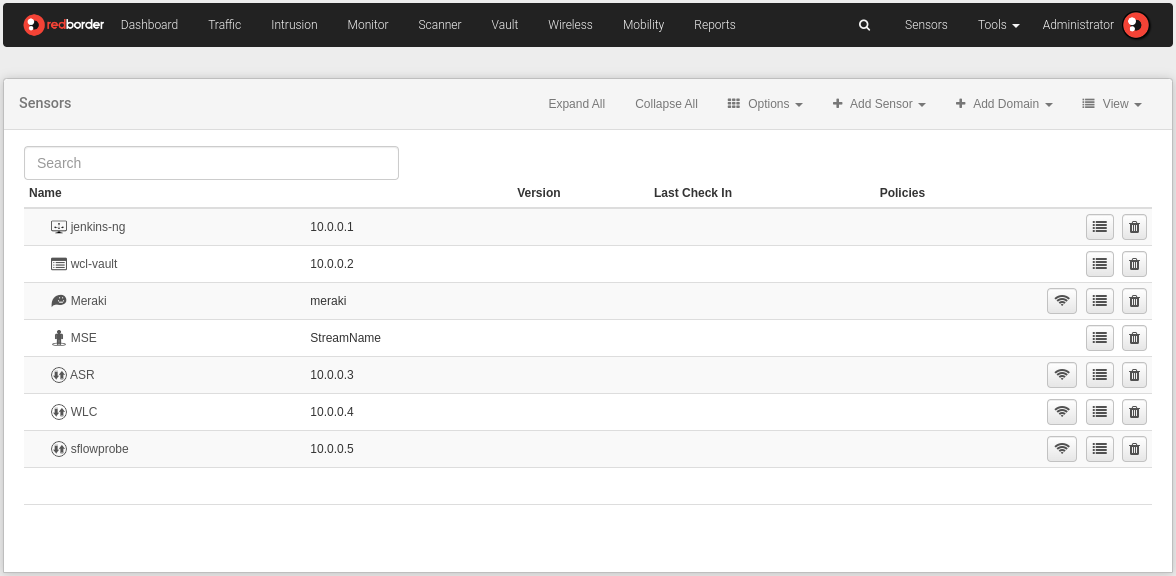
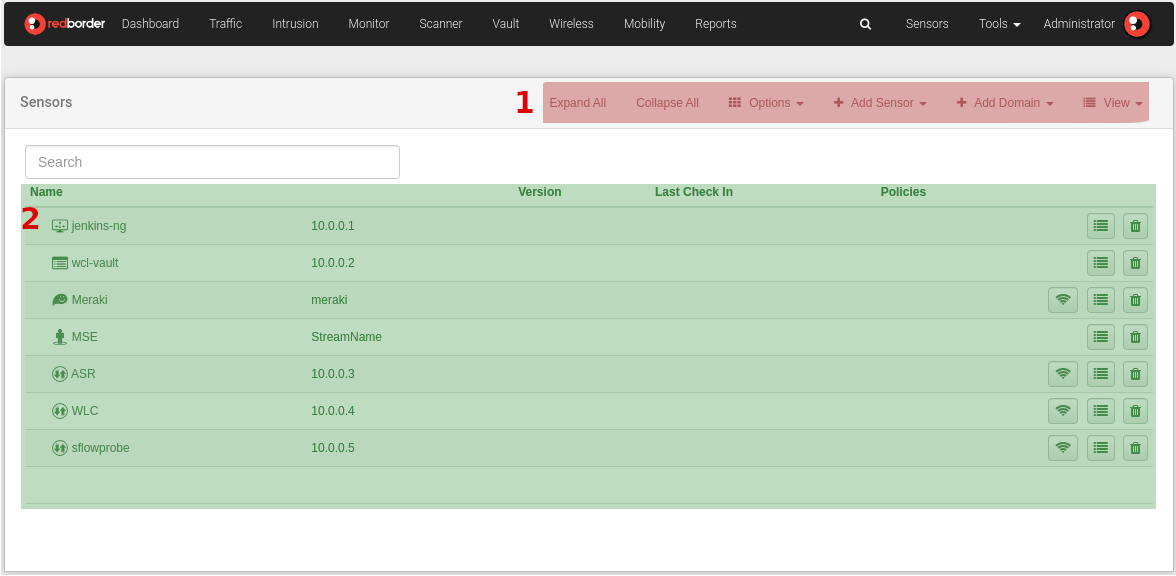
Adaptation of chapters from 6.1 to 6.8 in ES and EN

diff --git a/docs/manager/platform_configurations/ch6_sensors.md b/docs/manager/platform_configurations/ch6_sensors.md
@@ -1,2 +1,255 @@
 
 # Sensors
+
+In the **Sensors** section, users can query, manage, and configure the sensors registered in the Manager by creating and editing domains and sensors. For this purpose, there are several views that offer the possibility to perform various actions on the sensors registered in the Manager.
+
+**Sensors** is available in the top right corner of the header menu, next to the **Tools** section and the user area. This menu area is called the **Configuration Zone**, because unlike the options available in the top left corner (Analysis), these allow for complete management and configuration of the Manager and the sensors: rule policies, alarms, cluster configuration, or user management, among other actions.
+
+## Menu and Sensor Options
+
+The organization of this section is very similar, in terms of structure, to that of other parts of the website. In this case, we find:
+
+![General Sensors View](images/ch06_img001.png)
+
+General Sensors View
+
+1. **Submenu section**: configuration and management options for sensors.
+    - *Expand all*: Fully expands the sensor tree.
+    - *Collapse all*: Fully collapses the sensor tree.
+    - *Options*
+    - *Add sensor*
+    - *Add domain*
+    - *View*
+
+- **Main area**: the information displayed in this area depends on the selected view. There are four views available to visualize the organization of sensors registered in the Manager:
+    - *Tree*: a list that shows the network infrastructure according to levels of hierarchy and dependency between the elements that compose it. Two icons next to each element allow for editing and deleting actions.
+    - *Map*: places the location of domains and sensors on a map.
+    - *Access Points*: offers direct access to the visualization of defined Access Points.
+
+    In the **Sensors** view, users can find a list of sensors available according to the applications included in their license. Click on the sensor you want to check to see an alphabetical list of all sensors associated with this application.
+
+!!!info "Please note..."
+    Each view presents its own menu of options and different possibilities for creating and editing sensors or domains.
+
+    The Map view does not present available options.
+
+## Options
+
+Here are the available options in the **Sensors** section. They can be selected from the Options button and from the options shown by clicking on the "Edit" button both at the domain level and at the sensor level.
+
+- *Import Tree*: This option allows you to import your network infrastructure by uploading a file to the Redborder platform. This will be displayed in the tree view.
+
+    ![Import Tree](images/ch06_img002.png)
+
+    Import Tree
+
+    There are two ways to import a tree:
+
+    1. **Options** -> **Import Tree**
+    - Edit icon (domain level)
+
+    ![Tree Import](images/ch06_img003.png)
+
+    Tree Import
+
+- *Export Tree*: This option allows you to export a tree and is available to other applications. The user will download a zip file to store it on their computer.
+
+    There are two ways to export a tree:
+
+    1. **Options** -> **Export Tree**
+    - Edit icon (domain level)
+
+    ![Tree Export](images/ch06_img004.png)
+
+    Tree Export
+
+- *Chef Cluster Lift*
+- *Cluster Data*
+    1. Indexed Data: Displays statistics of indexed data from the cluster
+    - Historical: Displays information about the historical data of the cluster
+    - Realtime: Displays information about the Realtime process
+
+## Add Sensor
+
+Throughout the submenu options, we find **Add a Sensor**. In the dropdown menu, the different sensors available to add to the network infrastructure are displayed.
+
+Select the type of sensor from the dropdown menu and then fill in the requested information.
+
+It is also possible to claim a sensor from a remote proxy using the option in the dropdown menu and entering the UUID of the sensor.
+
+![Add Sensor](images/ch06_img018.png)
+
+Add Sensor
+
+!!!info "Please note..."
+    At the moment a sensor is created, it is set by default as root, above the domain level.
+
+    Users can organize their sensor infrastructure at any time by dragging and dropping the sensor to the level where they want it to be.
+    
+    The sensor automatically inherits the properties of the root domain (policies, operating mode, Snort variables, etc.).
+
+## Views
+
+When the user accesses the Sensors section, they can find a list (tree view) displaying the domains and sensors that are part of their network infrastructure. At this point, let's review each view and the available actions.
+
+![View Menu Options](images/ch06_img005.png)
+
+View Menu Options
+
+### Tree
+
+The **tree** view (Shown in the image above) is the default view when accessing **Sensors**. It displays a list showing the organization of domains and sensors according to levels of hierarchy and dependency.
+
+From this view, the user can add a new domain or sensor, delete existing ones, access other views, import and export the tree, as well as directly edit all domains and sensors that are part of the list.
+
+Each item displayed in the tree has two icons: Edit and Delete. (The same icons function in both the tree view and the sensor view):
+
+![Edit and Delete Icons](images/ch06_img006.png)
+
+Edit and Delete Icons
+
+!!!info "Please note..."
+    The options in the menu displayed by the Edit icon will vary depending on whether we are at the domain level or sensor level.
+
+!!!warning "Important"
+
+    **Some sensors cannot be deleted.**
+
+    In such cases, the "Delete" icon will appear in gray. Before the domain or sensor is deleted, the system will display a popup screen with a warning message.
+
+    All users and descendants assigned to this domain or sensor will be disabled and assigned to its parent or root domain. The user with admin role needs to enable user permissions from the **Tools -> Users** section.
+
+![Confirm Sensor Deletion](images/ch06_img007.png)
+
+Confirm Sensor Deletion
+
+If **IPS/IDS sensors** have been registered, the type of policy/policies applied to them will be displayed.
+
+By clicking on it, we access the panel of rules included in that policy. For more information, refer to chapter 8 "**Policy Creation**".
+
+![Policy Icon](images/ch06_img008.png)
+
+Policy Icon
+
+**Options available in the Tree view:**
+
+- Add a new domain or sensor
+- Delete a domain or sensor
+- Access other views
+- Import and Export the tree
+- Edit a domain or sensor
+
+#### Organization Levels
+
+- **Domain**: These are containers that can include sensors, sensor groups, etc. The domain level shows the domain name and allows adding a description. They can be classified according to their nature (organizational, spatial, etc.).
+
+- **Sensors**: These are end nodes corresponding to physical elements placed in the network (switches, routers, IPS, etc.).
+
+At the sensor level, the following information is displayed: sensor name, IP, applied policy (IPS sensors), last check, and version. A description can be added to the sensor.
+
+!!!info "Please note..."
+    Remember that IPS or Gateway sensors must be created through sensor registration in the Manager installation process. **Sensors** allows you to edit and overwrite the parameters inherited from General Configuration: **Tools -> General Configuration**.
+
+    Sensors from other Apps can be created from the **Sensors** section.
+
+**Configuration Inheritance**:
+
+In the **Tools** section, there are options for General Configuration through which the user can define general parameters of the Manager and the Apps.
+
+This is the highest level of configuration (acts as the root domain), so the properties defined here will be inherited by domains and sensors that fall below this level.
+
+When a domain or sensor is created or edited for the first time, we can observe that some parameters have the label "Inherited", which means they have inherited values from the General Configuration. Override this information if you want to change it.
+
+Domains and sensors falling below the level of the overridden element will again inherit the properties applied to this element.
+
+### Monitors
+
+!!!info "Please note..."
+    This option is only available in the menu displayed by the "Edit" icon at the sensor level.
+
+When clicking on the "Edit" icon of the sensor, the Monitor option appears. Then, we can see a list of monitoring metrics used to monitor the status of the sensor at different levels. The technology column indicates the source from which the data is collected.
+
+![Sensor Edit Menu](images/ch06_img009.png)
+
+Sensor Edit Menu
+
+These are the actions available for controlling the sensor status:
+
+- **Restore Default**: applies the default metrics included at the time of sensor creation.
+- **Add Monitor**: shows available metrics.
+- **Delete Monitor**: removes the applied metric.
+
+![Monitors](images/ch06_img010.png)
+
+Monitors
+
+![Add Monitor Category](images/ch06_img011.png)
+
+Add Monitor Category
+
+### Access Points
+
+Access Points (APs) are the access points of the network infrastructure associated with a location. The Access Points depend on the Flow App and apply at both the domain and sensor levels.
+
+This is another way to visualize your sensor organization, through the distribution of APs by domain. You can access the visualization or creation of Access Points in two different ways:
+
+- View -> Access Points.
+- Edit icon at the sensor/domain level -> Edit: Access Points View (located in the top-right submenu).
+
+!!!info "Please note..."
+    To know at which level we are, you can check the navigation path located in the top-left margin. You can navigate through the different screens by clicking on any of the elements in the path.
+
+The submenu of this interface displays a series of buttons similar to those on the main **Sensors** screen. The actions you can perform from this screen are as follows (these may vary depending on whether you are viewing at the domain or sensor level):
+
+- **Show on Map/Show Plants**: displays the geographical distribution of the Access Points or their location in plants if you are viewing a Plant domain with more than one plant level.
+- **Edit (domain or sensor name)**: takes you back to the domain or sensor editing screen.
+- **Options -> Export Access Points/Delete Access Points**: allows exporting all Access Points to a .csv file or deleting all defined Access Points for that location.
+- **Add sensors**: adds a new sensor defined as an Access Point.
+- **Add domain**
+- **Views**: menu that allows navigation through the different existing views.
+- **Add Access Points**
+- **Add zones**
+
+![Access Points Summary](images/ch06_img012.png)
+
+Access Points Summary
+
+![Add Access Point](images/ch06_img013.png)
+
+Add Access Point
+
+![Access Points (Zone)](images/ch06_img014.png)
+
+Access Points (Zone)
+
+![Add Zone](images/ch06_img015.png)
+
+Add Zone
+
+## Adding a Domain
+
+As we've seen earlier, there are various types of domains identified through an icon in the tree view. The process of adding a domain is straightforward; the configuration should be done later through the Edit icon found next to each domain in the tree view or from the Access Points view.
+
+Select the *Add Domain* option located in the top-right submenu, choose the type of domain you want to add, and then fill in the required fields (these will vary depending on the type of domain being created).
+
+![Add a domain](images/ch06_img016.png)
+
+Add a domain
+
+From this point on, the rest of the information associated with the domain should be modified by clicking on the edit button located to the right of each domain in the Tree or Access Points view and selecting the *Edit* option.
+
+## Editing a Domain
+
+From this interface, you can modify the configuration of an existing domain and enter information for a newly created domain.
+
+To access this screen, the user must click on the edit button to the right of the domain they wish to edit from the Tree or Access Points view and select the **Edit** option.
+
+![Domain Editing](images/ch06_img017.png)
+
+Domain Editing
+
+These are the general data that can be modified for domains. However, depending on the selected domain type, one of these fields will appear:
+
+- **General**: Displays general information about the domain. Name, domain type: (select the domain type in the box), and description.
+- **Servers**: In this section, the user can define the configuration of Proxy and Syslog servers. All displayed values are inherited by default. Overwrite if necessary.
+- **Location**: Locates the sensor/domain on a world map.

diff --git a/docs/manager/platform_configurations/ch6_sensors.es.md b/docs/manager/platform_configurations/ch6_sensors.es.md
@@ -9,6 +9,10 @@ En la sección ***Sensors*** el usuario puede realizar la consulta, gestión y c
 
 La organización de esta sección es muy similar, en cuanto a estructura, a la de otras partes de la web. En este caso, encontraremos:
 
+![Vista general de sensores](images/ch06_img001.png)
+
+Vista general de sensores
+
 1. **Sección del submenú**: opciones de configuración y gestión de sensores.
     - *Expandir todo*: Expande completamente el árbol de sensores.
     - *Contraer todo*: Contrae completamente el árbol de sensores.
@@ -23,10 +27,6 @@ La organización de esta sección es muy similar, en cuanto a estructura, a la d
     - *Puntos de acceso*: ofrece acceso directo a la visualización de los *Access Points* definidos.
 
     Sensores en la Vista el usuario puede encontrar una lista de sensores disponibles según las aplicaciones incluidas en su licencia. Haga clic en el sensor que desea verificar para ver una lista alfabética de todos los sensores asociados con esta aplicación.
-
-![Vista general de sensores](images/ch06_img001.png)
-
-Vista general de sensores
 
 !!! info "Ten en cuenta..."
     Cada vista presenta su propio menú de opciones y las diferentes posibilidades de creación y edición de sensores o dominios.
@@ -68,6 +68,26 @@ Aquí se encuentran las opciones disponibles en la sección Sensores. Pueden ser
     1. Datos indexados: Muestra estadísticas de datos indexados del clúster
     - Históricos: Muestra información acerca del histórico de datos del clúster
     - Realtime: Muestra información acerca del proceso Realtime
+
+## Añadir sensor
+
+A lo largo de las opciones del submenú encontramos **Añadir un Sensor**. En el menú desplegable, muestran los diferentes sensores disponibles para agregar a la infraestructura de red.
+
+Seleccione el tipo de sensor en el menú desplegable y luego complete la información solicitada.
+
+También es posible reclamar un sensor desde un proxy remoto utilizando la opción en el menú desplegable e ingresando el UUID del sensor.
+
+![Añadir sensor](images/ch06_img018.png)
+
+Añadir sensor
+
+!!! info "Ten en cuenta..."
+
+    En el momento en que se crea un sensor, por defecto se establece como raíz, por encima del nivel de dominio.
+    
+    El usuario puede organizar su infraestructura de sensores en cualquier momento, arrastrando y soltando el sensor en el nivel en el que desea colocarlo.
+    
+    El sensor hereda automáticamente las propiedades del dominio raíz. (políticas, modo de funcionamiento, variables de Snort, etc.).
 
 ## Vistas
 
@@ -205,3 +225,31 @@ Puntos de Acceso (Zona)
 ![Añadir Zona](images/ch06_img015.png)
 
 Añadir Zona
+
+## Añadir un dominio
+
+Como hemos visto anteriormente, existen diversos tipos de dominios identificados a través de un icono en la vista de árbol. El proceso de adición de un dominio es muy sencillo; la configuración deberá realizarse posteriormente mediante el icono Editar -> Edit que encontramos al lado de cada dominio en la vista árbol o desde la vista **Access Points**.
+
+Seleccionar la opción *Add Domain* que se encuentra en el submenú superior derecha, elegir el tipo de dominio que se quiere añadir, y a continuación, rellenar los campos requeridos (estos variarán según el tipo de dominio a crear).
+
+![Añadir un dominio](images/ch06_img016.png)
+
+Añadir un dominio
+
+A partir de este momento, el resto de información asociada al dominio deberá modificarse haciendo clic en el botón de edición situado a la derecha de cada dominio en la vista Árbol o Access Points y seleccionando la opción *Edit*.
+
+## Editar un dominio
+
+Desde esta interfaz puede modificar la configuración de un dominio existente e ingresar la información de un dominio recién creado.
+
+Para acceder a esta pantalla, el usuario debe hacer clic en el botón editar a la derecha del dominio que desea editar desde la vista de árbol o Puntos de acceso y selecciona la opción **Editar**.
+
+![Edición de un dominio](images/ch06_img017.png)
+
+Edición de un dominio
+
+Estos son los datos generales que podemos modificar para los dominios. Sin embargo, dependiendo del tipo de dominio seleccionado, aparecerá uno de estos campos:
+
+- **General**: Muestra información general del dominio. Nombre , tipo de dominio: (seleccione el tipo de dominio en el cuadro) y descripción.
+- **Servidores**: En esta sección, el usuario puede definir la configuración de los servidores Proxy y Syslog. Todos los valores mostrados se heredan de forma predeterminada. Sobreescribe si es necesario.
+- **Localización**: Localiza el sensor/dominio en un mapa mundial.
